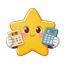
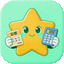
功能：应用图标改为 emerald 绿主题（配合 UI 主色）
更新飞牛 App 图标与前端 favicon：沿用原星星吉祥物，背景粉色改为
emerald 绿（与 UI 主色 emerald-500/600 一致），圆角透明、不裁切。

diff --git a/frontend/index.html b/frontend/index.html
@@ -2,7 +2,8 @@
 <html lang="en">
   <head>
     <meta charset="UTF-8" />
-    <link rel="icon" type="image/svg+xml" href="/vite.svg" />
+    <link rel="icon" type="image/png" href="/favicon.png" />
+    <link rel="apple-touch-icon" href="/favicon.png" />
     <meta name="viewport" content="width=device-width, initial-scale=1.0" />
     <title>彩彩助手</title>
   </head>
